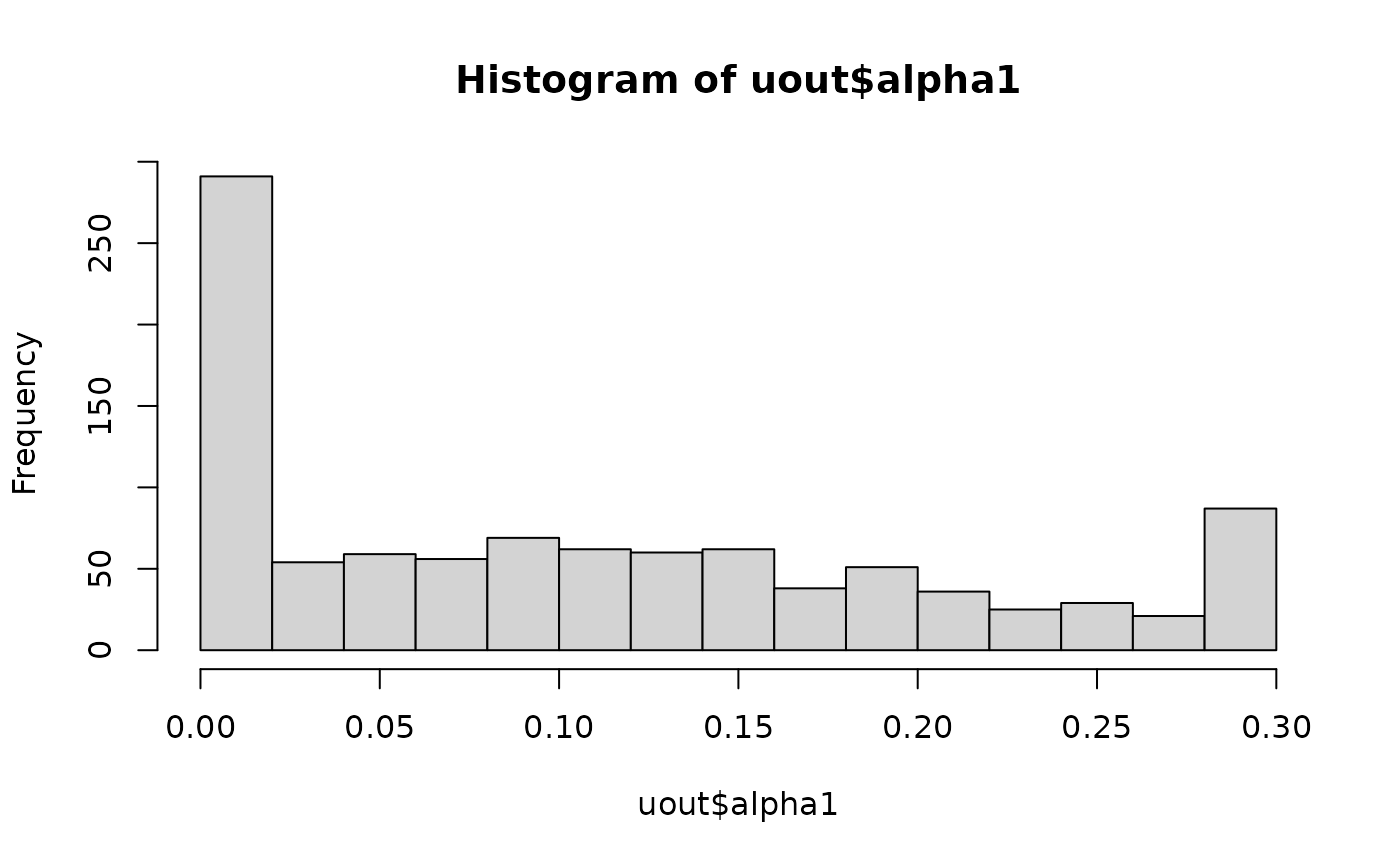
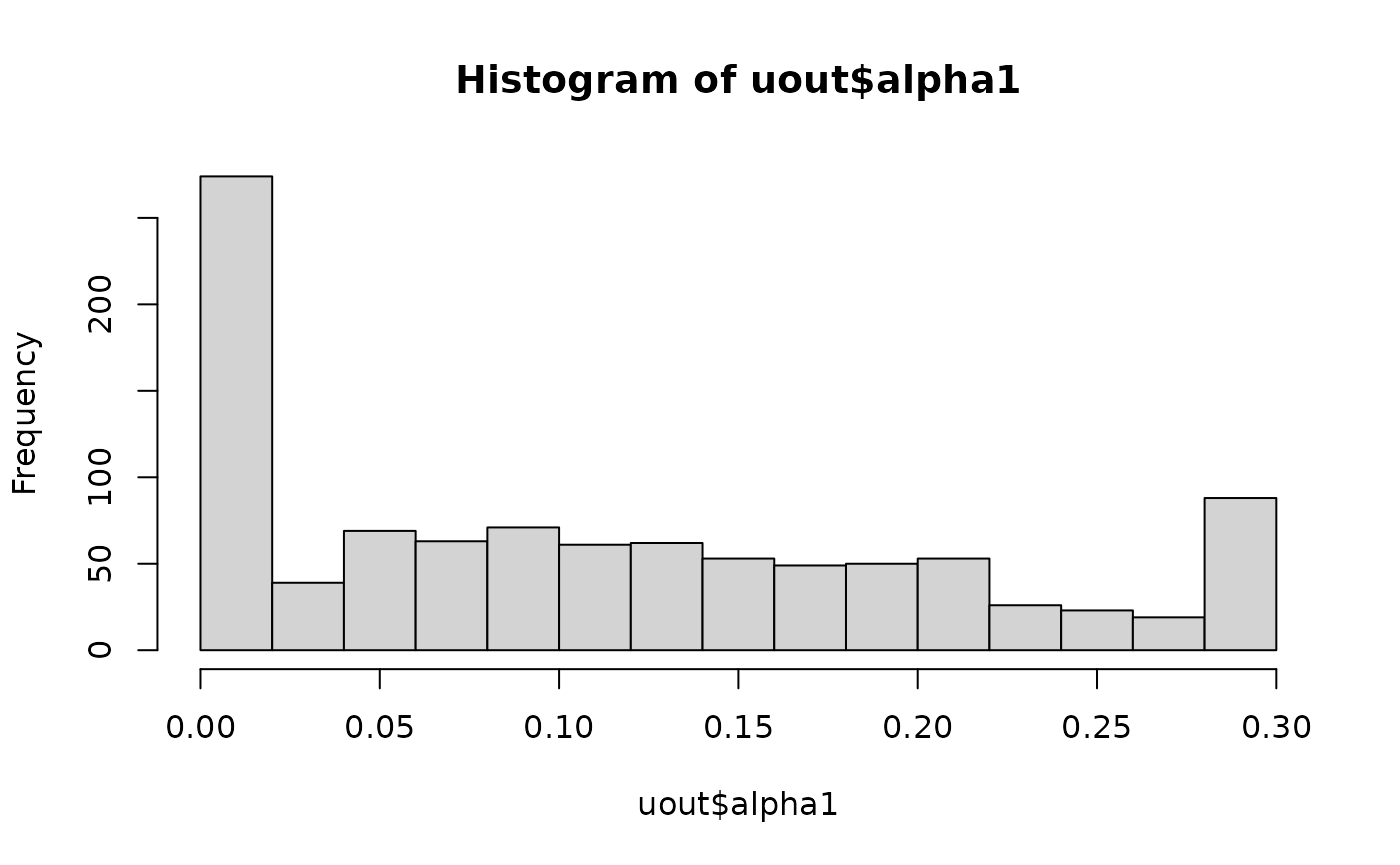
spell check, edit vignette to include qqpvalue(), edit news

diff --git a/docs/articles/introduction.html b/docs/articles/introduction.html
@@ -249,12 +249,12 @@
 <span class="va">nmat</span> <span class="op">&lt;-</span> <span class="fu"><a href="https://rdrr.io/r/base/t.html" class="external-link">t</a></span><span class="op">(</span><span class="fu"><a href="https://rdrr.io/r/stats/Multinom.html" class="external-link">rmultinom</a></span><span class="op">(</span>n <span class="op">=</span> <span class="fl">1000</span>, size <span class="op">=</span> <span class="fl">100</span>, prob <span class="op">=</span> <span class="va">geno_freq</span><span class="op">)</span><span class="op">)</span>
 <span class="fu"><a href="https://rdrr.io/r/utils/head.html" class="external-link">head</a></span><span class="op">(</span><span class="va">nmat</span><span class="op">)</span>
 <span class="co">#&gt;      [,1] [,2] [,3] [,4] [,5] [,6] [,7]</span>
-<span class="co">#&gt; [1,]    2   11   17   25   33   10    2</span>
-<span class="co">#&gt; [2,]    0   10   25   27   24   14    0</span>
-<span class="co">#&gt; [3,]    6    6   26   24   22   15    1</span>
-<span class="co">#&gt; [4,]    0   15   24   28   23    7    3</span>
-<span class="co">#&gt; [5,]    3   11   24   32   20   10    0</span>
-<span class="co">#&gt; [6,]    1   11   24   29   20   11    4</span></code></pre></div>
+<span class="co">#&gt; [1,]    0   10   28   22   23   12    5</span>
+<span class="co">#&gt; [2,]    1    7   25   35   15   15    2</span>
+<span class="co">#&gt; [3,]    2   10   23   26   22   14    3</span>
+<span class="co">#&gt; [4,]    3   12   18   26   19   15    7</span>
+<span class="co">#&gt; [5,]    2    8   26   27   25   10    2</span>
+<span class="co">#&gt; [6,]    0   11   19   31   26   10    3</span></code></pre></div>
 <p><code><a href="../reference/hwefit.html">hwefit()</a></code> expects a matrix of genotype counts, where the rows index the loci and the columns index the genotype. So <code>nmat[i, j]</code> is the count of the number of individuals that have dosage <code>j-1</code> at locus <code>i</code>.</p>
 <p>You control the type of test via the <code>type</code> argument. Using <code>type = "ustat"</code> will use the <span class="math inline">\(U\)</span>-statistic approach to test for equilibrium, as implemented in <code><a href="../reference/hweustat.html">hweustat()</a></code>.</p>
 <div class="sourceCode" id="cb14"><pre class="downlit sourceCode r">
@@ -267,7 +267,7 @@
 <p>On average, we obtain good estimates of the double reduction rate</p>
 <div class="sourceCode" id="cb15"><pre class="downlit sourceCode r">
 <code class="sourceCode R"><span class="fu"><a href="https://rdrr.io/r/base/mean.html" class="external-link">mean</a></span><span class="op">(</span><span class="va">uout</span><span class="op">$</span><span class="va">alpha1</span><span class="op">)</span>
-<span class="co">#&gt; [1] 0.1077187</span></code></pre></div>
+<span class="co">#&gt; [1] 0.1109858</span></code></pre></div>
 <p>But the sampling properties of this estimator are highly variable, even for such a large sample size:</p>
 <div class="sourceCode" id="cb16"><pre class="downlit sourceCode r">
 <code class="sourceCode R"><span class="fu"><a href="https://rdrr.io/r/graphics/hist.html" class="external-link">hist</a></span><span class="op">(</span><span class="va">uout</span><span class="op">$</span><span class="va">alpha1</span><span class="op">)</span></code></pre></div>
@@ -285,8 +285,12 @@
        main <span class="op">=</span> <span class="st">"QQ-plot"</span><span class="op">)</span>
 <span class="fu"><a href="https://rdrr.io/r/graphics/abline.html" class="external-link">abline</a></span><span class="op">(</span><span class="fl">0</span>, <span class="fl">1</span>, lty <span class="op">=</span> <span class="fl">2</span>, col <span class="op">=</span> <span class="fl">2</span><span class="op">)</span></code></pre></div>
 <p><img src="introduction_files/figure-html/unnamed-chunk-17-2.png" width="700"></p>
-<p>Make sure to shut down your workers after you are done:</p>
+<p>You can view this QQ-plot on the <span class="math inline">\(-log_{10}\)</span>-scale using <code><a href="../reference/qqpvalue.html">qqpvalue()</a></code>. This plot will also show the simultaneous confidence bands for the QQ-plot from Aldor-Noiman et al. (2013), which can also be calculated using <code><a href="../reference/ts_bands.html">ts_bands()</a></code>.</p>
 <div class="sourceCode" id="cb19"><pre class="downlit sourceCode r">
+<code class="sourceCode R"><span class="fu"><a href="../reference/qqpvalue.html">qqpvalue</a></span><span class="op">(</span>pvals <span class="op">=</span> <span class="va">uout</span><span class="op">$</span><span class="va">p_hwe</span>, method <span class="op">=</span> <span class="st">"base"</span><span class="op">)</span></code></pre></div>
+<p><img src="introduction_files/figure-html/unnamed-chunk-18-1.png" width="700"></p>
+<p>Make sure to shut down your workers after you are done:</p>
+<div class="sourceCode" id="cb20"><pre class="downlit sourceCode r">
 <code class="sourceCode R"><span class="fu"><a href="https://future.futureverse.org/reference/plan.html" class="external-link">plan</a></span><span class="op">(</span><span class="st">"sequential"</span><span class="op">)</span></code></pre></div>
 <p>The other values of “type” run different procedures:</p>
 <ul>
@@ -302,6 +306,7 @@
 <h2 id="references">References<a class="anchor" aria-label="anchor" href="#references"></a>
 </h2>
 <ul>
+<li><p>Aldor-Noiman, S., Brown, L. D., Buja, A., Rolke, W., &amp; Stine, R. A. (2013). The power to see: A new graphical test of normality. The American Statistician, 67(4), 249-260. <a href="https://doi.org/10.1080/00031305.2013.847865" class="external-link">doi:10.1080/00031305.2013.847865</a></p></li>
 <li><p>Fisher, R. A., &amp; Mather, K. (1943). The inheritance of style length in <em>Lythrum salicaria</em>. <em>Annals of Eugenics</em>, 12(1), 1-23. <a href="https://doi.org/10.1111/j.1469-1809.1943.tb02307.x" class="external-link">doi:10.1111/j.1469-1809.1943.tb02307.x</a></p></li>
 <li><p>Gerard, D. (2021). Double reduction estimation and equilibrium tests in natural autopolyploid populations. <em>bioRxiv</em>. <a href="https://doi.org/10.1101/2021.09.24.461731" class="external-link">doi:10.1101/2021.09.24.461731</a>.</p></li>
 <li><p>Huang, K., Wang, T., Dunn, D. W., Zhang, P., Cao, X., Liu, R., &amp; Li, B. (2019). Genotypic frequencies at equilibrium for polysomic inheritance under double-reduction. <em>G3: Genes | Genomes | Genetics</em>, 9(5), 1693-1706. <a href="https://doi.org/10.1534/g3.119.400132" class="external-link">doi:10.1534/g3.119.400132</a></p></li>

diff --git a/docs/reference/ts_bands.html b/docs/reference/ts_bands.html
@@ -1,6 +1,6 @@
 <!DOCTYPE html>
 <!-- Generated by pkgdown: do not edit by hand --><html lang="en"><head><meta http-equiv="Content-Type" content="text/html; charset=UTF-8"><meta charset="utf-8"><meta http-equiv="X-UA-Compatible" content="IE=edge"><meta name="viewport" content="width=device-width, initial-scale=1.0"><title>Get simultaneous confidence bands for a uniform QQ-plot — ts_bands • hwep</title><!-- jquery --><script src="https://cdnjs.cloudflare.com/ajax/libs/jquery/3.4.1/jquery.min.js" integrity="sha256-CSXorXvZcTkaix6Yvo6HppcZGetbYMGWSFlBw8HfCJo=" crossorigin="anonymous"></script><!-- Bootstrap --><link rel="stylesheet" href="https://cdnjs.cloudflare.com/ajax/libs/twitter-bootstrap/3.4.1/css/bootstrap.min.css" integrity="sha256-bZLfwXAP04zRMK2BjiO8iu9pf4FbLqX6zitd+tIvLhE=" crossorigin="anonymous"><script src="https://cdnjs.cloudflare.com/ajax/libs/twitter-bootstrap/3.4.1/js/bootstrap.min.js" integrity="sha256-nuL8/2cJ5NDSSwnKD8VqreErSWHtnEP9E7AySL+1ev4=" crossorigin="anonymous"></script><!-- bootstrap-toc --><link rel="stylesheet" href="../bootstrap-toc.css"><script src="../bootstrap-toc.js"></script><!-- Font Awesome icons --><link rel="stylesheet" href="https://cdnjs.cloudflare.com/ajax/libs/font-awesome/5.12.1/css/all.min.css" integrity="sha256-mmgLkCYLUQbXn0B1SRqzHar6dCnv9oZFPEC1g1cwlkk=" crossorigin="anonymous"><link rel="stylesheet" href="https://cdnjs.cloudflare.com/ajax/libs/font-awesome/5.12.1/css/v4-shims.min.css" integrity="sha256-wZjR52fzng1pJHwx4aV2AO3yyTOXrcDW7jBpJtTwVxw=" crossorigin="anonymous"><!-- clipboard.js --><script src="https://cdnjs.cloudflare.com/ajax/libs/clipboard.js/2.0.6/clipboard.min.js" integrity="sha256-inc5kl9MA1hkeYUt+EC3BhlIgyp/2jDIyBLS6k3UxPI=" crossorigin="anonymous"></script><!-- headroom.js --><script src="https://cdnjs.cloudflare.com/ajax/libs/headroom/0.11.0/headroom.min.js" integrity="sha256-AsUX4SJE1+yuDu5+mAVzJbuYNPHj/WroHuZ8Ir/CkE0=" crossorigin="anonymous"></script><script src="https://cdnjs.cloudflare.com/ajax/libs/headroom/0.11.0/jQuery.headroom.min.js" integrity="sha256-ZX/yNShbjqsohH1k95liqY9Gd8uOiE1S4vZc+9KQ1K4=" crossorigin="anonymous"></script><!-- pkgdown --><link href="../pkgdown.css" rel="stylesheet"><script src="../pkgdown.js"></script><meta property="og:title" content="Get simultaneous confidence bands for a uniform QQ-plot — ts_bands"><meta property="og:description" content='This will provide 100(1-a)% simultaneous confidence bands for a
-sample of size n. It does this by the "tail-sensative" approach
+sample of size n. It does this by the "tail-sensitive" approach
 of Aldor-Noiman et al (2013), which uses simulated uniform vectors. The
 number of simulations is controlled by nsamp.'><!-- mathjax --><script src="https://cdnjs.cloudflare.com/ajax/libs/mathjax/2.7.5/MathJax.js" integrity="sha256-nvJJv9wWKEm88qvoQl9ekL2J+k/RWIsaSScxxlsrv8k=" crossorigin="anonymous"></script><script src="https://cdnjs.cloudflare.com/ajax/libs/mathjax/2.7.5/config/TeX-AMS-MML_HTMLorMML.js" integrity="sha256-84DKXVJXs0/F8OTMzX4UR909+jtl4G7SPypPavF+GfA=" crossorigin="anonymous"></script><!--[if lt IE 9]>
 <script src="https://oss.maxcdn.com/html5shiv/3.7.3/html5shiv.min.js"></script>
@@ -63,7 +63,7 @@ number of simulations is controlled by nsamp.'><!-- mathjax --><script src="http
 
     <div class="ref-description">
     <p>This will provide 100(1-a)% simultaneous confidence bands for a
-sample of size <code>n</code>. It does this by the "tail-sensative" approach
+sample of size <code>n</code>. It does this by the "tail-sensitive" approach
 of Aldor-Noiman et al (2013), which uses simulated uniform vectors. The
 number of simulations is controlled by <code>nsamp</code>.</p>
     </div>

diff --git a/docs/news/index.html b/docs/news/index.html
@@ -62,6 +62,7 @@
 <ul><li>New function, <code><a href="../reference/qqpvalue.html">qqpvalue()</a></code>: A QQ-plot function for <span class="math inline"><em>p</em></span>-values on the <span class="math inline"> − log<sub>10</sub></span>-scale.</li>
 <li>New function, <code><a href="../reference/ts_bands.html">ts_bands()</a></code>: Calculates simultaneous confidence bands for uniform quantiles.</li>
 <li>New function, <code><a href="../reference/f1dr.html">f1dr()</a></code>: Estimates the double reduction rate from an F1 population via maximum likelihood.</li>
+<li>Edit aggregation strategy so that it works a little better to mitigate the effects of the asymptotic approximation.</li>
 </ul></div>
     <div class="section level2">
 <h2 class="page-header" data-toc-text="0.0.1" id="hwep-001">hwep 0.0.1<small>2021-09-28</small><a class="anchor" aria-label="anchor" href="#hwep-001"></a></h2>

diff --git a/docs/index.html b/docs/index.html
@@ -113,6 +113,7 @@
 <li><p><code><a href="reference/hwefreq.html">hwefreq()</a></code>: Calculate genotype frequencies at equilibrium.</p></li>
 </ul>
 <p>The bounds on the double reduction rate under the complete equational segregation model are provided by <code><a href="reference/drbounds.html">drbounds()</a></code>.</p>
+<p>Functions for evaluating the uniformity of <img src="https://latex.codecogs.com/png.image?%5Cdpi%7B110%7D&amp;space;%5Cbg_white&amp;space;p" title="p" alt="p">-values are provided in <code><a href="reference/ts_bands.html">ts_bands()</a></code> and <code><a href="reference/qqpvalue.html">qqpvalue()</a></code>.</p>
 <div class="section level2">
 <h2 id="installation">Installation<a class="anchor" aria-label="anchor" href="#installation"></a>
 </h2>

diff --git a/README.md b/README.md
@@ -19,12 +19,12 @@ stable](https://img.shields.io/badge/lifecycle-stable-brightgreen.svg)](https://
 
 Inference concerning equilibrium and random mating in autopolyploids.
 Methods are available to test for equilibrium and random mating at any
-even ploidy level (&gt;2) in the presence of double reduction at
-biallelic loci. For autopolyploid populations in equilibrium, methods
-are available to estimate the degree of double reduction. We also
-provide functions to calculate genotype frequencies at equilibrium, or
-after one or several rounds of random mating, given rates of double
-reduction. For details of these methods, see Gerard (2021).
+even ploidy level (>2) in the presence of double reduction at biallelic
+loci. For autopolyploid populations in equilibrium, methods are
+available to estimate the degree of double reduction. We also provide
+functions to calculate genotype frequencies at equilibrium, or after one
+or several rounds of random mating, given rates of double reduction. For
+details of these methods, see Gerard (2021).
 
 The main functions for inference are:
 
@@ -73,6 +73,10 @@ individuals and gametes:
 
 The bounds on the double reduction rate under the complete equational
 segregation model are provided by `drbounds()`.
+
+Functions for evaluating the uniformity of
+![p](https://latex.codecogs.com/png.image?%5Cdpi%7B110%7D&space;%5Cbg_white&space;p "p")-values
+are provided in `ts_bands()` and `qqpvalue()`.
 
 ## Installation
 

diff --git a/NEWS.md b/NEWS.md
@@ -3,6 +3,7 @@
 - New function, `qqpvalue()`: A QQ-plot function for $p$-values on the $-\log_{10}$-scale. 
 - New function, `ts_bands()`: Calculates simultaneous confidence bands for uniform quantiles.
 - New function, `f1dr()`: Estimates the double reduction rate from an F1 population via maximum likelihood.
+- Edit aggregation strategy so that it works a little better to mitigate the effects of the asymptotic approximation.
 
 # hwep 0.0.1
 
